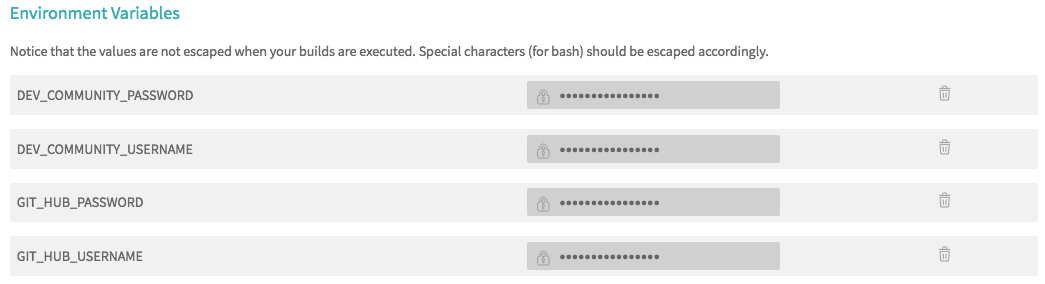
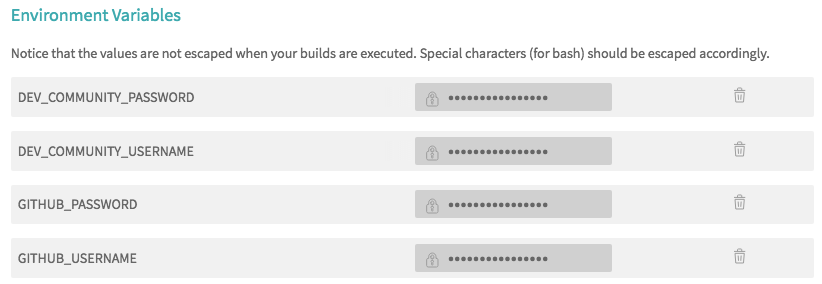
Updating PHPUnit automation scripts based on code review
Update config_override
Update GIT_HUB to GITHUB
Update config_si

Fix headers error

Remove sudo from calls to get install to work on local machine

diff --git a/scripts/config_si.php b/scripts/config_si.php
@@ -1,36 +1,31 @@
 <?php
 $sugar_config_si = array (
+    'setup_db_host_name' => 'sugar-mysql',
+    'setup_db_database_name' => 'sugar',
+    'setup_db_drop_tables' => 1,
+    'setup_db_create_database' => 1,
+    'demoData' => 0,
+    'developerMode' => 1,
+    'setup_site_admin_user_name' => 'admin',
+    'setup_site_admin_password' => 'sugarcrm',
+    'setup_db_admin_user_name' => 'root',
+    'setup_db_admin_password' => 'root',
+    'setup_db_type' => 'mysql',
+    'setup_site_url' => 'http://sugar-web1/sugar',
+    'setup_system_name' => 'SugarCRM',
     'default_currency_iso4217' => 'USD',
     'default_currency_name' => 'US Dollars',
     'default_currency_significant_digits' => '2',
     'default_currency_symbol' => '$',
     'default_date_format' => 'Y-m-d',
+    'default_time_format' => 'H:i',
     'default_decimal_seperator' => '.',
     'default_export_charset' => 'ISO-8859-1',
     'default_language' => 'en_us',
     'default_locale_name_format' => 's f l',
     'default_number_grouping_seperator' => ',',
-    'default_time_format' => 'H:i',
-    'demoData' => 0,
     'export_delimiter' => ',',
-    'setup_db_admin_user_name' => 'root',
-    'setup_db_admin_password' => 'root',
-    'setup_db_create_database' => 1,
-    'setup_db_create_sugarsales_user' => 0,
-    'setup_db_database_name' => 'sugar',
-    'setup_db_drop_tables' => 1,
-    'setup_db_host_name' => 'sugar-mysql',
-    'setup_db_type' => 'mysql',
+    'setup_fts_type' => 'Elastic',
     'setup_fts_host' => 'sugar-elasticsearch',
     'setup_fts_port' => '9200',
-    'setup_fts_type' => 'Elastic',
-    'setup_license_key_expire_date' => '2017-03-18',
-    'setup_license_key_oc_licences' => 0,
-    'setup_license_key_users' => 10,
-    'setup_num_lic_oc' => 0,
-    'setup_site_admin_password' => 'sugarcrm',
-    'setup_site_admin_user_name' => 'admin',
-    'setup_site_sugarbeet_automatic_checks' => false,
-    'setup_site_url' => 'http://sugar-web1/sugar',
-    'setup_system_name' => 'Sugar',
 );

diff --git a/scripts/config_override.php b/scripts/config_override.php
@@ -1,29 +1,3 @@
 <?php
-$sugar_config['external_cache_disabled'] = false;
-$sugar_config['external_cache_disabled_redis'] = false;
 $sugar_config['external_cache_force_backend'] = 'redis';
 $sugar_config['external_cache']['redis']['host'] = 'sugar-redis';
-$sugar_config['external_cache_disabled_wincache'] = true;
-$sugar_config['external_cache_disabled_db'] = true;
-$sugar_config['external_cache_disabled_smash'] = true;
-$sugar_config['external_cache_disabled_apc'] = true;
-$sugar_config['external_cache_disabled_zend'] = true;
-$sugar_config['external_cache_disabled_memcache'] = true;
-$sugar_config['external_cache_disabled_memcached'] = true;
-$sugar_config['cache_expire_timeout'] = 600; // default: 5 minutes, increased to 10 minutes
-$sugar_config['disable_vcr'] = true; // bwc module only
-$sugar_config['disable_count_query'] = true; // bwc module only
-$sugar_config['save_query'] = 'populate_only'; // bwc module only
-$sugar_config['collapse_subpanels'] = true; // 7.6.0.0+
-$sugar_config['hide_subpanels'] = true; // bwc module only
-$sugar_config['hide_subpanels_on_login'] = true; // bwc module only
-$sugar_config['logger']['level'] = 'fatal';
-$sugar_config['logger']['file']['maxSize'] = '10MB';
-$sugar_config['developerMode'] = false;
-$sugar_config['dump_slow_queries'] = false;
-$sugar_config['slow_query_time_msec'] = '1000';
-$sugar_config['perfProfile']['TeamSecurity']['default']['teamset_prefetch'] = true;
-$sugar_config['perfProfile']['TeamSecurity']['default']['teamset_prefetch_max'] = 500;
-$sugar_config['perfProfile']['TeamSecurity']['default']['where_condition'] = true;
-$sugar_config['import_max_records_total_limit'] = '2000';
-$sugar_config['verify_client_ip'] = false;

diff --git a/scripts/cliModuleInstall.php b/scripts/cliModuleInstall.php
@@ -1,5 +1,4 @@
 #!/usr/bin/env php
-
 <?php
 
 # Script taken from https://github.com/sugarcrm/IPRestrictionManager/blob/master/.travis/cliModuleInstall.php

diff --git a/README.md b/README.md
@@ -178,8 +178,8 @@ The build has four Environment Variables that have been configured in the projec
 - DEV_COMMUNITY_USERNAME: The username for an account that has access to the 
 [SugarCRM Developer Builds Space](https://community.sugarcrm.com/community/developer/developer-builds)
 - DEV_COMMUNITY_PASSWORD: The password associated with the above account
-- GIT_HUB_USERNAME: The username for a GitHub account that has access to https://github.com/sugarcrm/unit-tests
-- GIT_HUB_PASSWORD: The password associated with the above account
+- GITHUB_USERNAME: The username for a GitHub account that has access to https://github.com/sugarcrm/unit-tests
+- GITHUB_PASSWORD: The password associated with the above account
 
 ![Travis CI Environment Variables](images/travisenvvars.png)
 
@@ -300,8 +300,8 @@ and manually trigger the builds instead.
 1. In the **Build Environment** section, select the **Delete workspace before build starts** option and the **Use secret
 text(s) or file(s)** option.
 1. In the **Bindings** section, select **Add** > **Username and password (separated)**. Then input the following:
-    1. Username Variable: `GIT_HUB_USERNAME`
-    1. Password Variable: `GIT_HUB_PASSWORD`
+    1. Username Variable: `GITHUB_USERNAME`
+    1. Password Variable: `GITHUB_PASSWORD`
     1. Credentials: **Specific credentials**
     1. Select the GITHUB_SUGARCRM_UNIT_TESTS credentials.
 1. In the **Bindings** section, select **Add** > **Username and password (separated)**. Then input the following:
@@ -338,7 +338,7 @@ text(s) or file(s)** option.
      
     bash -ex RunPackUnitTestsAndBuildProfMPackage.sh $SUGAR_WORKSPACE_PATH
      
-    bash SetupEnvAndRunPHPUnitTests.sh $DEV_COMMUNITY_USERNAME $DEV_COMMUNITY_PASSWORD $SUGAR_VERSION $SUGAR_EDITION $GIT_HUB_USERNAME $GIT_HUB_PASSWORD $SUGAR_DOCKER_DIRECTORY $SUGAR_SOURCE_ZIPS_DIRECTORY
+    bash SetupEnvAndRunPHPUnitTests.sh $DEV_COMMUNITY_USERNAME $DEV_COMMUNITY_PASSWORD $SUGAR_VERSION $SUGAR_EDITION $GITHUB_USERNAME $GITHUB_PASSWORD $SUGAR_DOCKER_DIRECTORY $SUGAR_SOURCE_ZIPS_DIRECTORY
     ```
     Be sure to update the variables appropriately.
 1. In the **Post-build Actions** section, click **Add post-build action** and select **Archive the artifacts**.
